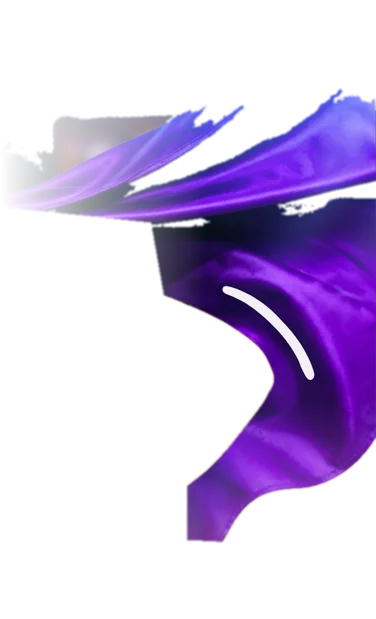
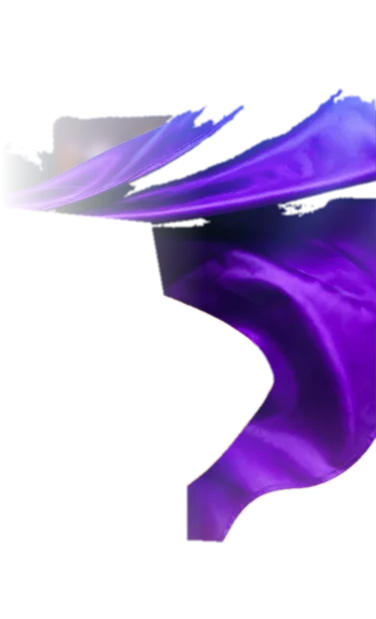
NostaKids : trait blanc de la cape fixe (ne se deforme plus a l'ondulation)

Changed region(s): [[0.5851, 0.4604, 0.8484, 0.6139], [0.7021, 0.5832, 0.7314, 0.6139], [0.6729, 0.5525, 0.7021, 0.5832]]

diff --git a/src/components/NostaKidsModal.tsx b/src/components/NostaKidsModal.tsx
@@ -91,6 +91,8 @@ export default function NostaKidsModal({ onClose }: { onClose: () => void }) {
           <img className="nk-layer nk-cape" src={`${IMG}cape.webp`} alt="" style={CAPE} />
           {/* Bras et poing de l'enfant, fixes, posés sur la cape : elle passe derrière */}
           <img className="nk-layer" src={`${IMG}bras.webp`} alt="" style={CAPE} />
+          {/* Trait blanc du graphiste : fixe, sinon l'ondulation le déforme (effet « déchirure ») */}
+          <img className="nk-layer" src={`${IMG}trait.webp`} alt="" style={CAPE} />
           <span className="nk-layer nk-shine" style={LOGO} aria-hidden />
           <div className="nk-layer nk-vague" style={ZONE_VAGUE}>
             <img className="nk-layer nk-cadeau nk-cadeau-1" src={`${IMG}cadeau-1.webp`} alt="" style={CADEAU_1} />
